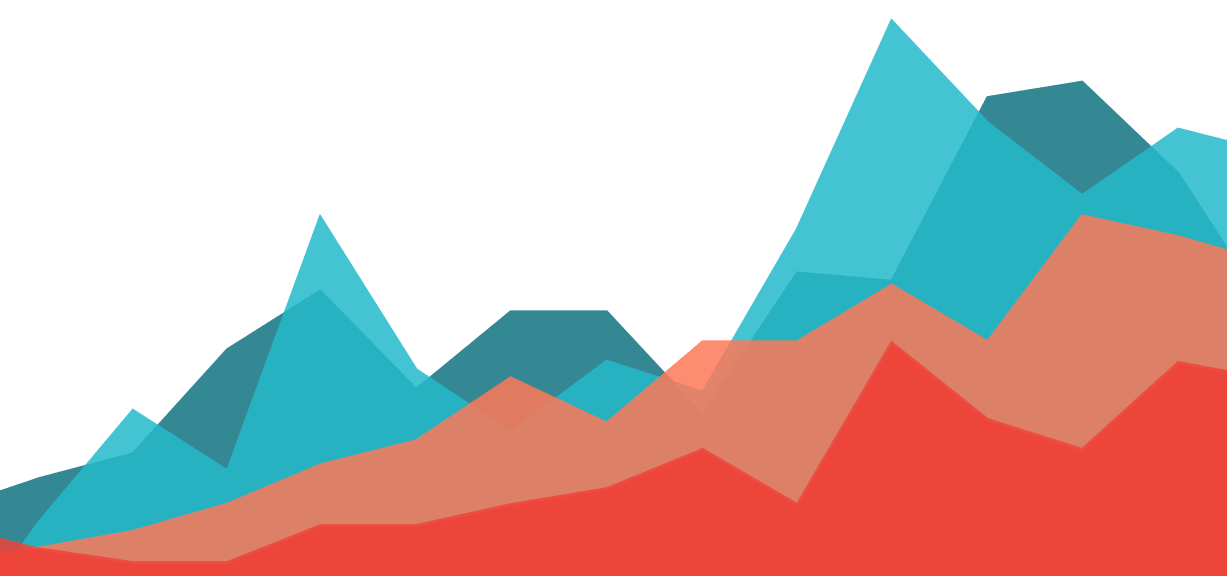
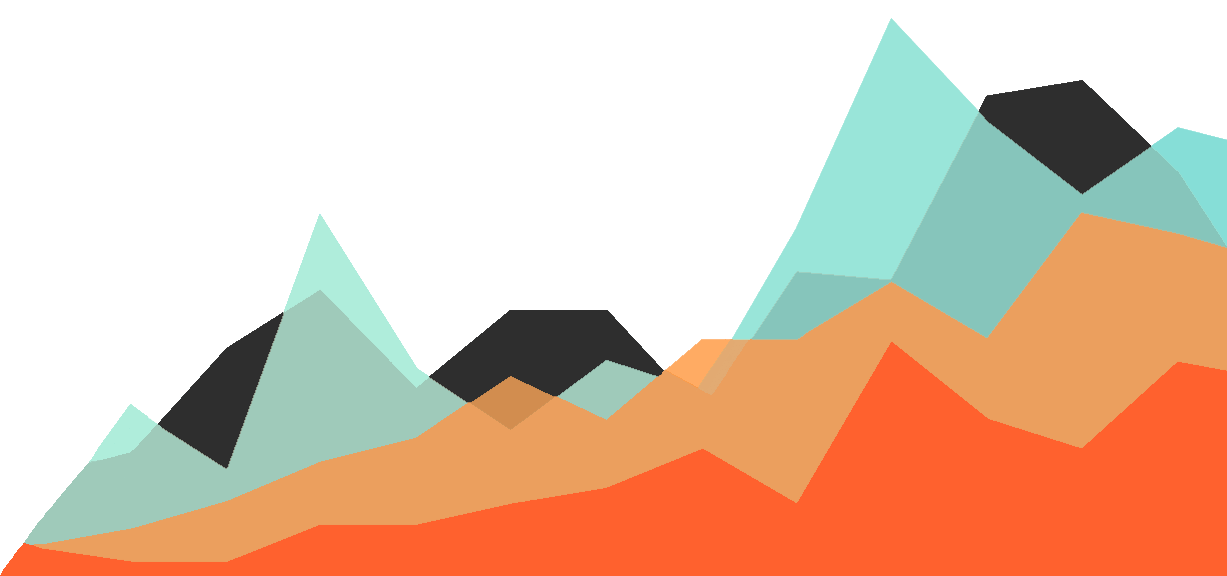
072819

diff --git a/css/styles.css b/css/styles.css
@@ -3,57 +3,73 @@ body {
     height: 1930px;
     width: 100%;
     margin: 0px;
-    background-color: blanchedalmond;
-    font-family: 'Raleway', sans-serif;
+    background-color: #fffffc;
+    font-family: 'Montserrat', sans-serif;
+    font-family: 'Open Sans', sans-serif;
 }
 
  header {
     top: 0;
     width: 100%;
     height: 200px;
-    background-color: whitesmoke;
     border-style: solid;
-    border-color: black;
+    border-color: #2E2E2E;
 } 
 
 .nav-bar {
     width: 100%;
     height: 200px;
-    background-color: white;
+    background-color: #fffffc;
     float: left;
     position: relative;
     padding: 0%;
     margin: 0%;
 }
 
+.logo-container {
+    position: relative;
+    width: 25%;
+    height: 200px;
+    float: left;
+}
+
+.nav-list{
+    float: left;
+    text-align: center;
+    width: 50%;
+    height: 200px;
+    padding: 0%;
+    list-style: none;
+    padding: 0;
+    margin: 0;
+    display: flex;
+    justify-content: space-around;
+    vertical-align: middle;   
+} 
+
+.nav-img-container {
+    /* position: relative; */
+    width: 25%;
+    height: 200px;
+    float: left;
+}
+
+.nav-list .list-item {
+    padding-top: 55px;
+    height: 15px;
+    width: 250px; 
+    font-size: 3.5em;
+    color: #2e2e2e;
+    font-family: 'Open Sans';
+}
+
 .header-nav-img {
     float: right;
-    height: 200px;
-    width: 30%;
-    
-} 
-
- .nav-list{
-    display: inline;
-    right: 100px;
-    justify-content: left;
+    clear: left;
     height: 200px;
     width: 100%;
-
+    /* right: 0; */
 } 
-
-.list-item {
-    float: left;
-    margin-right: 18px;
-    list-style-type: none;
-    height: 15px;
-    width: 250px;
-    font-size: 3.5em;
-    text-align: center;
-    position: relative;
-    top: 100px;
-    left: 300px;
-}
 
 .logo {
     width: 300px;
@@ -68,12 +84,6 @@ body {
     margin: 0px 30px;
 }
 
-.list_item {
-    color: black;
-    position: relative;
-    float: right;
-}
-
 .hero-content {
     position: relative;
     background: transparent;
@@ -84,12 +94,12 @@ body {
     position: absolute;
     top: 175px;
     left: 120px;
-    border: 3px solid white;
+    border: 3px solid #FF612E;
     text-align: center;
     font-size: 100px;
-    height: 120px;
-    width: 1000px;
-    color: white;
+    height: 140px;
+    font-family: 'Montserrat';
+    color: #FF612E;
     } 
 
 .hero-content .content-text-box{
@@ -98,10 +108,10 @@ body {
     z-index: 2;
     height: 600px;
     width: 700px;
-    background-color: white;
+    background-color: #2e2e2e;
     position: relative;
-    opacity: .5;
-    border: 3px solid white;
+    opacity: .90;
+    border: 3px solid #fffffc;
     margin: 30px;
     float: right;
 }
@@ -110,11 +120,11 @@ body {
     z-index: 3;
     width: 80%;
     margin: 10%;
-    color: black;
+    color: #fffffc;
     opacity: 1;
     font-weight: bold;
     text-align: left;
-    font-family: 'Courier New', Courier, monospace;
+    font-family: 'Open Sans', sans-serif;;
     font-size: 30px;
 }
 
@@ -136,32 +146,31 @@ footer {
     position: relative;
     height: 300px;
     width: 33.33%;
-    background-color: rgb(245, 233, 231);
+    background-color: #fffffc;
     float: left;
-    color: black;
+    color: #2E2E2E;
 }
 
-.input {
-    padding: 10%;
+.footer-nav-img {
+    transform: rotateY(180deg);    
 }
-
-input, button {
-    padding: 2em;
-  }
 
 .center-icons{
-    position: absolute;
+    /* position: absolute; */
+    width: 100%;
+    height: 300px;
+    display: flex;
+    justify-content: center;
+    align-items: center;
 }
 
-.fab {
+.fab, .fas {
     font-size: 9em;
     text-align: right;
+    color: #2e2e2e
 }
 
-.col2 {
-    
 
-}
 
 .col3 {
    font-size: 3em;

diff --git a/index.html b/index.html
@@ -16,23 +16,27 @@
         <script src="https://kit.fontawesome.com/5e687b4af9.js"></script>
         <link href="https://fonts.googleapis.com/css?family=Raleway&display=swap">
         <link href="https://fonts.googleapis.com/css?family=Oswald|Raleway&display=swap" rel="stylesheet">
-        <link href="https://fonts.googleapis.com/css?family=Bungee+Outline|Oswald|Raleway&display=swap" rel="stylesheet">
+        <link href="https://fonts.googleapis.com/css?family=Montserrat|Open+Sans&display=swap" rel="stylesheet">
         <link rel="stylesheet" href="css/styles.css" text="css/text"/>
 
 </head>
 <body>
     <header>
     <nav class="nav-bar">
-        <a id="logo" href="http://www.ignaciopfaria.com">
-            <img class="default-logo" alt="ignaciopfaria.com logo"      src="img\fariaanalytics.png">
-        </a>
+        <div class="logo-container">
+            <a id="logo" href="http://www.ignaciopfaria.com">
+                <img class="default-logo" alt="ignaciopfaria.com logo"      src="img\fariaanalytics.png">
+            </a>
+        </div>
         <ul class="nav-list">
-                <img class="header-nav-img" alt="stacked-line-graph" src="img\stacked-line-graph.png" style="height:100%">
             <li class="list-item"><a href="index.html">home</a></li>
             <li class="list-item"><a href="#">work</a></li>
             <li class="list-item"><a href="about.html">about</a></li>
             <li class="list-item"><a href="contact.html">contact</a></li>
         </ul>
+        <div class="nav-img-container">
+            <img class="header-nav-img" alt="stacked-line-graph" src="img\stacked-line-graph.png" style="height:100%">
+        </div>
     </nav>
     </header>
 
@@ -41,9 +45,9 @@
 
     <main class="hero">
         <div class="hero-content">
-            <h1>Your data tells a story
+            <h1>Your data tell a story
             </h1>
-            <img class="fresno-img" src="img\downtown-fresno-skyline-mt.jpg" alt="img\downtown-fresno-skyline" class="content-img"
+            <img class="fresno-img" src="img\securitybankbw.jpg" alt="img\downtown-fresno-skyline" class="content-img"
             style="width:115%">
             <div class="content-text-box">
                 <p class="content-text">
@@ -60,16 +64,16 @@
 
     <footer class="footer">
         <div class="footer-col col1">
-            <div class="input">
-                <input />
-                <button>submit</button> 
-            </div>
+            <img class="footer-nav-img" alt="stacked-line-graph-footer" src="img\stacked-line-graph.png" style="height:100%">
         </div>
         <div class="footer-col col2">
             <div class="center-icons">
-            <a href="https://www.linkedin.com/in/ifaria/" target="_blank"><i class="fab fa-linkedin"></i></a>
-            <a href="https://www.facebook.com/ifaria2" target="_blank"><i class="fab fa-facebook-square"></i></a>
-            <a href="https://mail.google.com/mail/u/0/#inbox" target="_blank"><i class="fab fa-envelope"></i></a>
+                <a href="https://www.linkedin.com/in/ifaria/" target="_blank">
+                    <i class="fab fa-linkedin" style="color:"></i></a>
+                <a href="https://www.facebook.com/ifaria2" target="_blank">
+                    <i class="fab fa-facebook-square"></i></a>
+                <a href="https://mail.google.com/mail/u/0/#inbox" target="_blank">
+                    <i class="fas fa-envelope-square"></i></a>
             </div>
         </div>
         <div class="footer-col col3">
